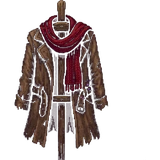
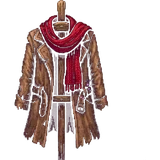
Лист: иконка «Экипировки» ярче, наравне с остальными вкладками
Claude-Session: https://claude.ai/code/session_01HQbYBcpCxdpGsACZLEoX1h

Changed region(s): [[0.0938, 0.0, 0.6875, 0.9688]]

diff --git a/sheet/index.html b/sheet/index.html
@@ -2727,7 +2727,7 @@ function toggleTest(){save();vib([20,40,70]);document.body.classList.add('flip')
 renderAll();fit();setTimeout(fit,300);wideFix();
 /* самообновление: сайт разрешает телефону держать старую копию до 10 минут.
    При открытии и при возврате в приложение тихо проверяем, нет ли версии новее, и сразу её грузим. */
-const BUILD='2026-11-27-54';
+const BUILD='2026-11-27-55';
 function checkUpdate(){if(location.protocol==='file:')return;
  fetch(location.pathname+'?check='+Date.now(),{cache:'no-store'}).then(r=>r.ok?r.text():'').then(t=>{
   const m=t.match(/const BUILD='([^']+)'/);if(!m||m[1]===BUILD)return;
